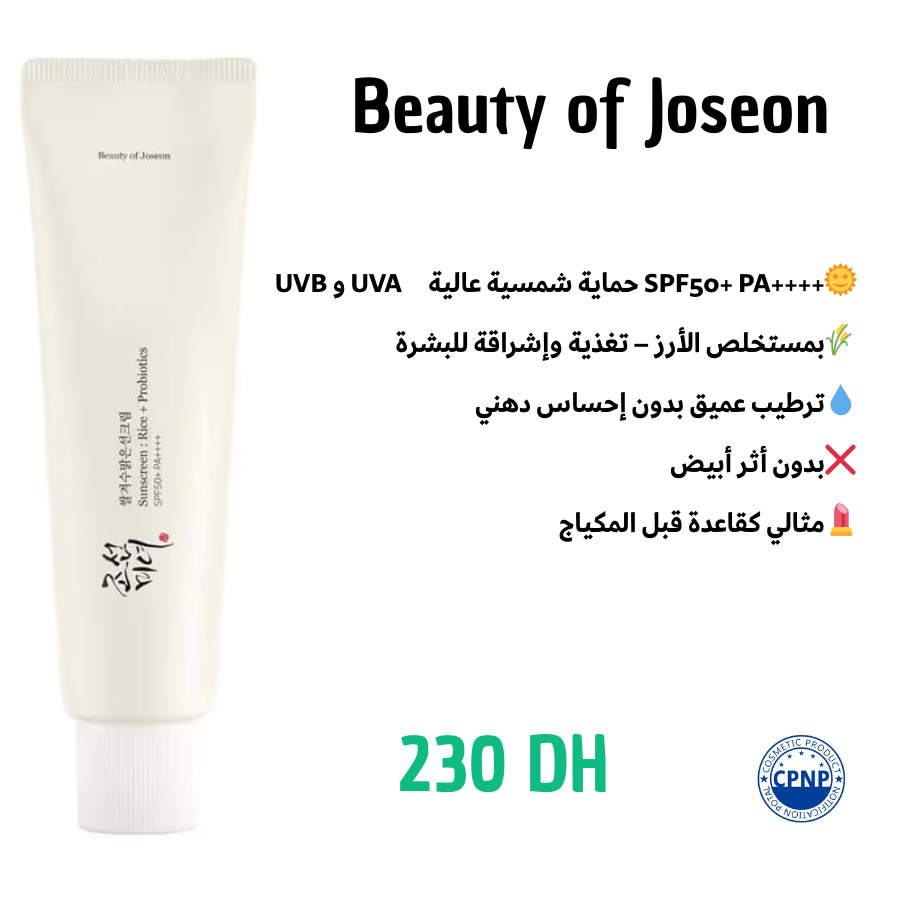
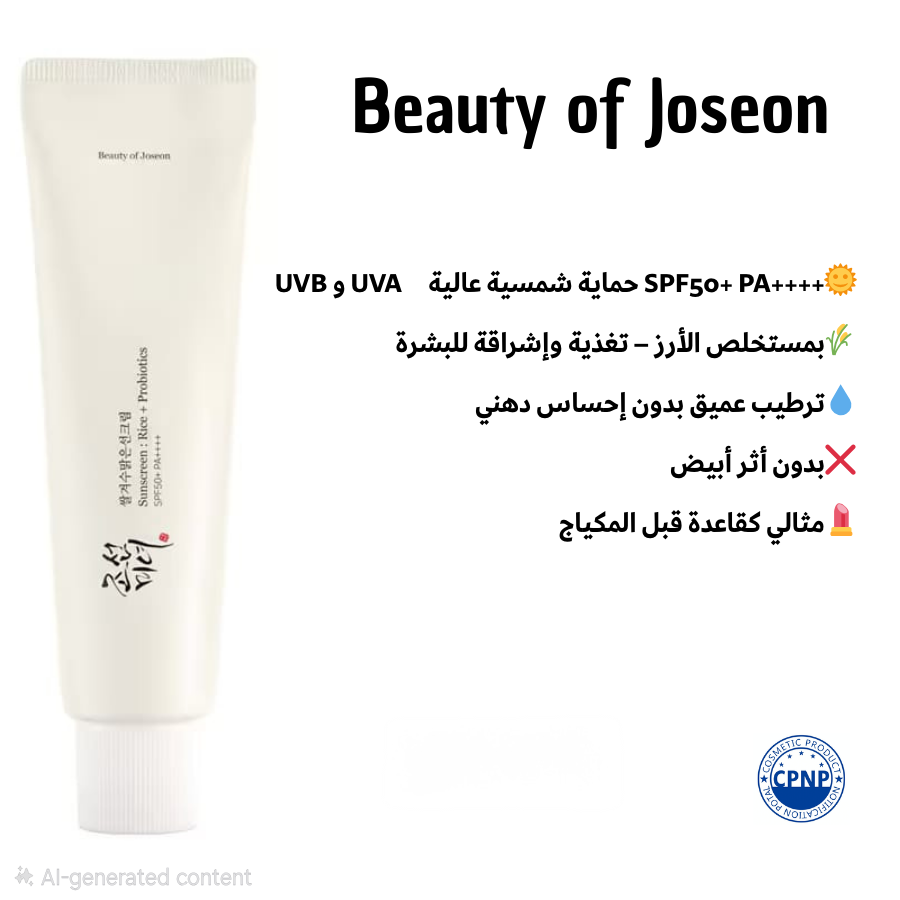
update website

Changed region(s): [[0.4356, 0.8089, 0.56, 0.9022], [0.5911, 0.8089, 0.6844, 0.9022], [0.0, 0.9644, 0.28, 0.9956]]

diff --git a/index.html b/index.html
@@ -47,6 +47,8 @@ header {
 
 .delivery {
     margin-bottom: 10px;
+    color: green;
+    font-weight: bold;
 }
 
 .total {
@@ -105,15 +107,15 @@ footer {
 
 <h2>Beauty of Joseon SPF50+</h2>
 
-<div class="price">السعر : 230 درهم</div>
-<div class="delivery">التوصيل : 20 درهم</div>
+<div class="price">السعر : 250 درهم</div>
+<div class="delivery">🚚 التوصيل مجاني</div>
 
 <label>اختر العدد :</label>
 <select id="quantity" onchange="calculateTotal()">
 </select>
 
 <div class="total" id="total">
-المجموع : 250 درهم
+💰 المجموع : 250 درهم
 </div>
 
 <h3>أدخل معلوماتك:</h3>
@@ -134,10 +136,10 @@ footer {
 </footer>
 
 <script>
-// ⚡ Stock المتوفر لديك
-var stock = 50; // ضع هنا عدد الوحدات المتوفرة لديك
+// ⚡ Stock
+var stock = 50;
 
-// إنشاء خيارات العدد تلقائيًا حسب Stock
+// إنشاء الكمية
 var quantitySelect = document.getElementById("quantity");
 for (var i = 1; i <= stock; i++) {
     var option = document.createElement("option");
@@ -146,24 +148,24 @@ for (var i = 1; i <= stock; i++) {
     quantitySelect.appendChild(option);
 }
 
-// حساب المجموع تلقائيًا
+// حساب المجموع
 function calculateTotal() {
-    var price = 230;
-    var delivery = 20;
+    var price = 250;
     var quantity = parseInt(document.getElementById("quantity").value);
-    
+
     if(quantity > stock){
-        alert("الكمية المطلوبة أكبر من المخزون المتوفر (" + stock + ")");
+        alert("الكمية أكبر من المخزون (" + stock + ")");
         document.getElementById("quantity").value = stock;
         quantity = stock;
     }
 
-    var total = (price * quantity) + delivery;
+    var total = price * quantity;
+
     document.getElementById("total").innerHTML =
-    "المجموع : " + total + " درهم";
+    "💰 المجموع : " + total + " درهم";
 }
 
-// إرسال الطلب إلى واتساب
+// إرسال الطلب
 function sendOrder() {
     var quantity = parseInt(document.getElementById("quantity").value);
     var name = document.getElementById("name").value;
@@ -176,16 +178,13 @@ function sendOrder() {
         return;
     }
 
-    if(quantity > stock){
-        alert("الكمية المطلوبة أكبر من المخزون المتوفر (" + stock + ")");
-        return;
-    }
+    var total = 250 * quantity;
 
-    var total = (230 * quantity) + 20;
     var message = "طلب جديد من Aura Cosmetics:%0A"
     + "المنتج: Beauty of Joseon SPF50+%0A"
     + "العدد: " + quantity + "%0A"
-    + "المجموع: " + total + " درهم%0A%0A"
+    + "المجموع: " + total + " درهم%0A"
+    + "🚚 التوصيل: مجاني%0A%0A"
     + "الاسم: " + name + "%0A"
     + "الهاتف: " + phone + "%0A"
     + "المدينة: " + city + "%0A"
@@ -194,7 +193,7 @@ function sendOrder() {
     window.open("https://wa.me/212663530438?text=" + message, "_blank");
 }
 
-// حساب المجموع عند التحميل أول مرة
+// أول تحميل
 calculateTotal();
 </script>
 